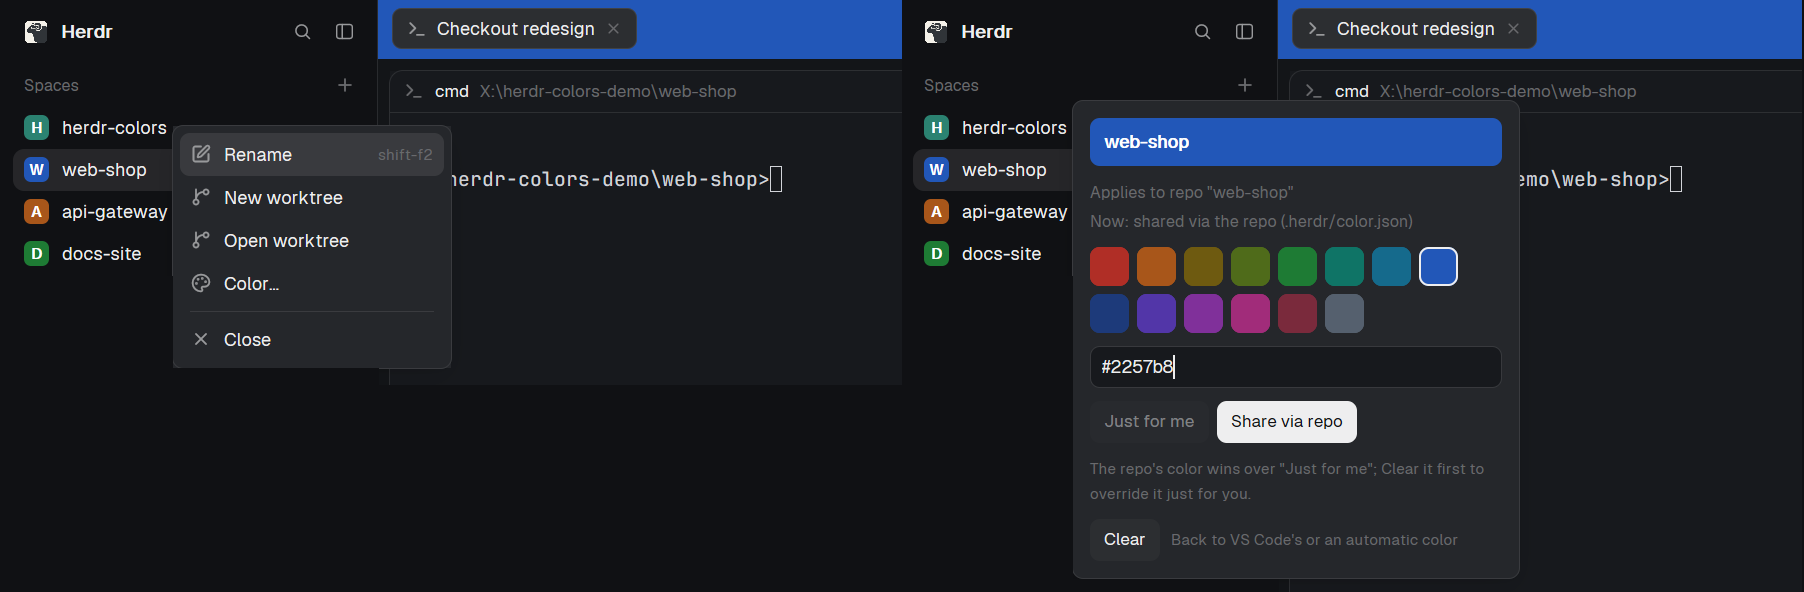
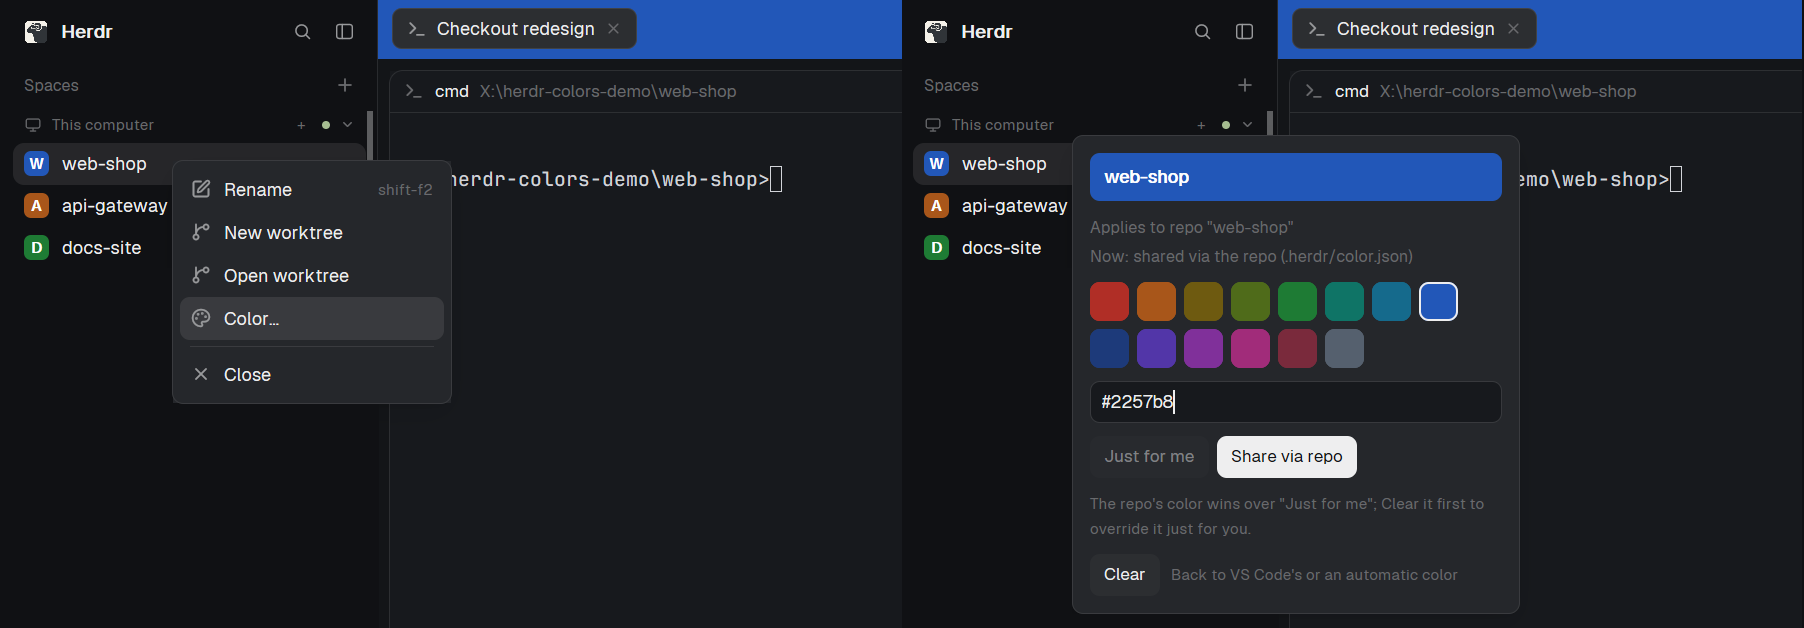
Put the color picker screenshot at the top, with Color... highlighted

diff --git a/README.md b/README.md
@@ -11,6 +11,10 @@ each project in its own color everywhere you look, like per-project title bars i
 
 *Three projects shown together for the picture; in Herdr you see one space at a time.*
 
+![Right-click a space and choose Color... (left); the color picker it opens (right)](docs/picking-a-color.png)
+
+*Right-click a space and choose **Color...** (left) to open the picker (right).*
+
 ## What you get
 
 | Where | What you see |
@@ -43,8 +47,6 @@ and the [user stories](docs/user-stories.md). Installing takes a few commands (n
 layout copy); see [Install](#install).
 
 ## Setting a color
-
-![Right-click a space and choose Color... (left); the color picker (right)](docs/picking-a-color.png)
 
 Right-click a space, a machine, an agent or an agents-panel space header:
 
